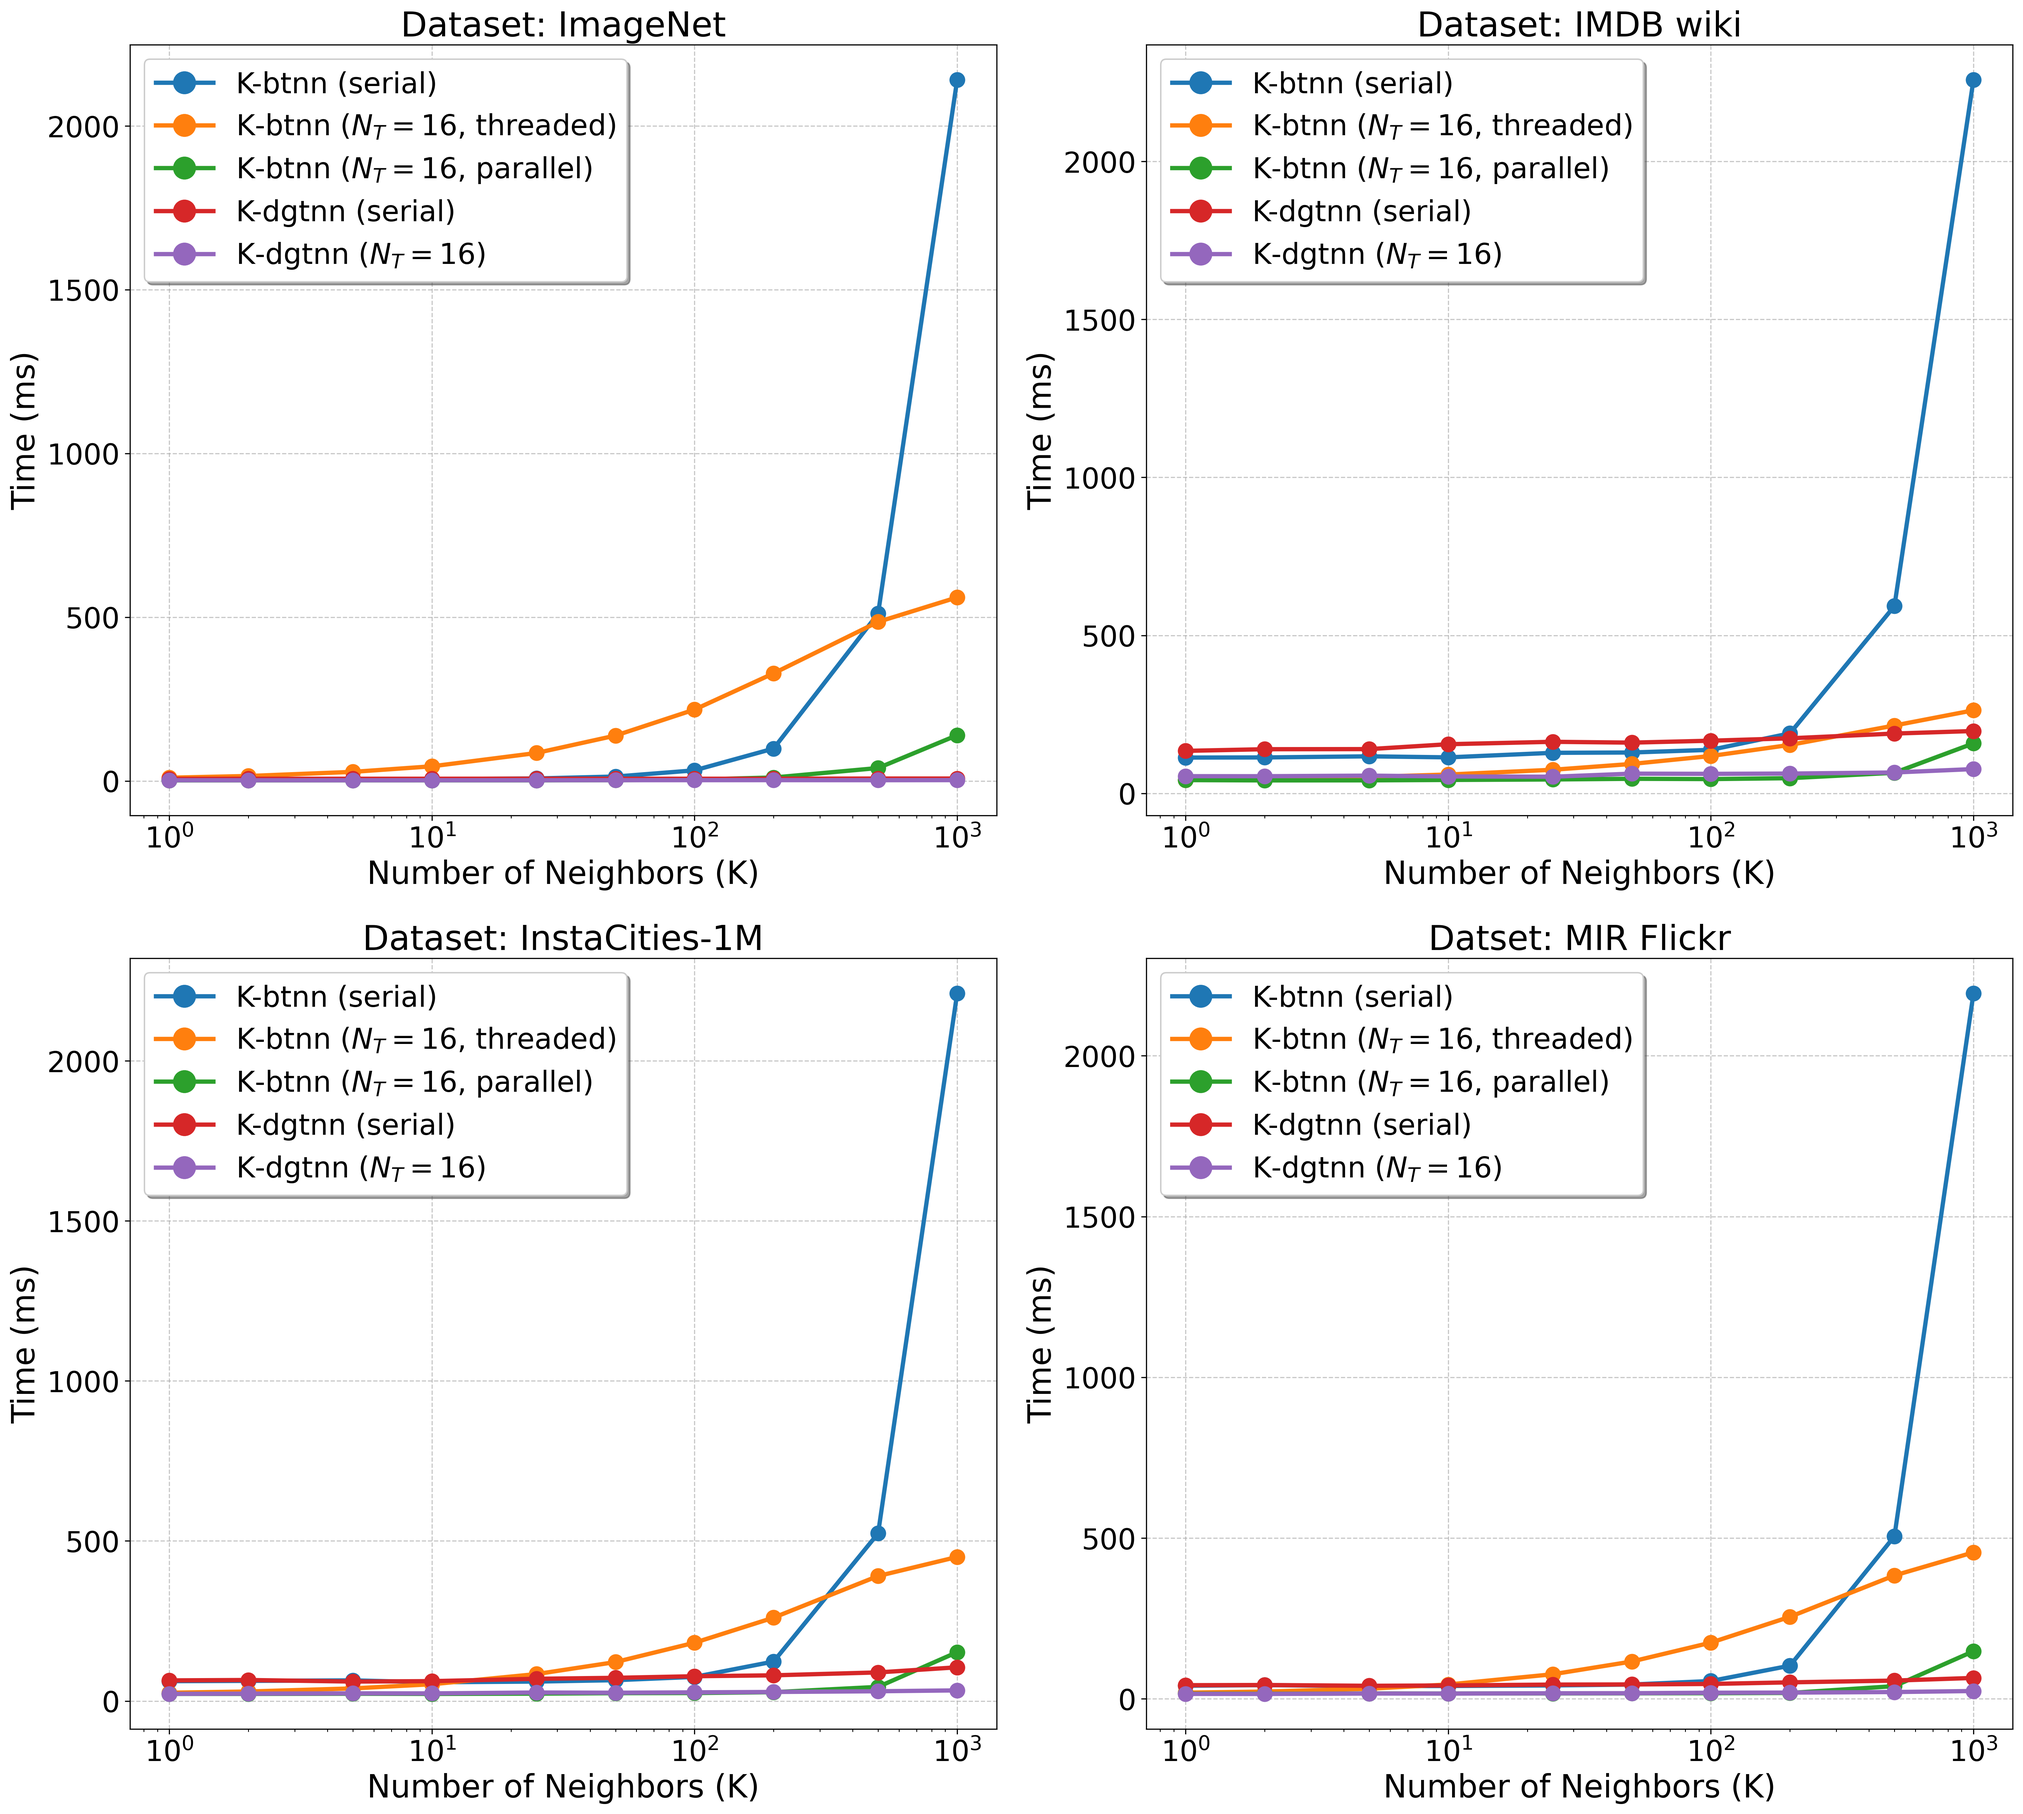
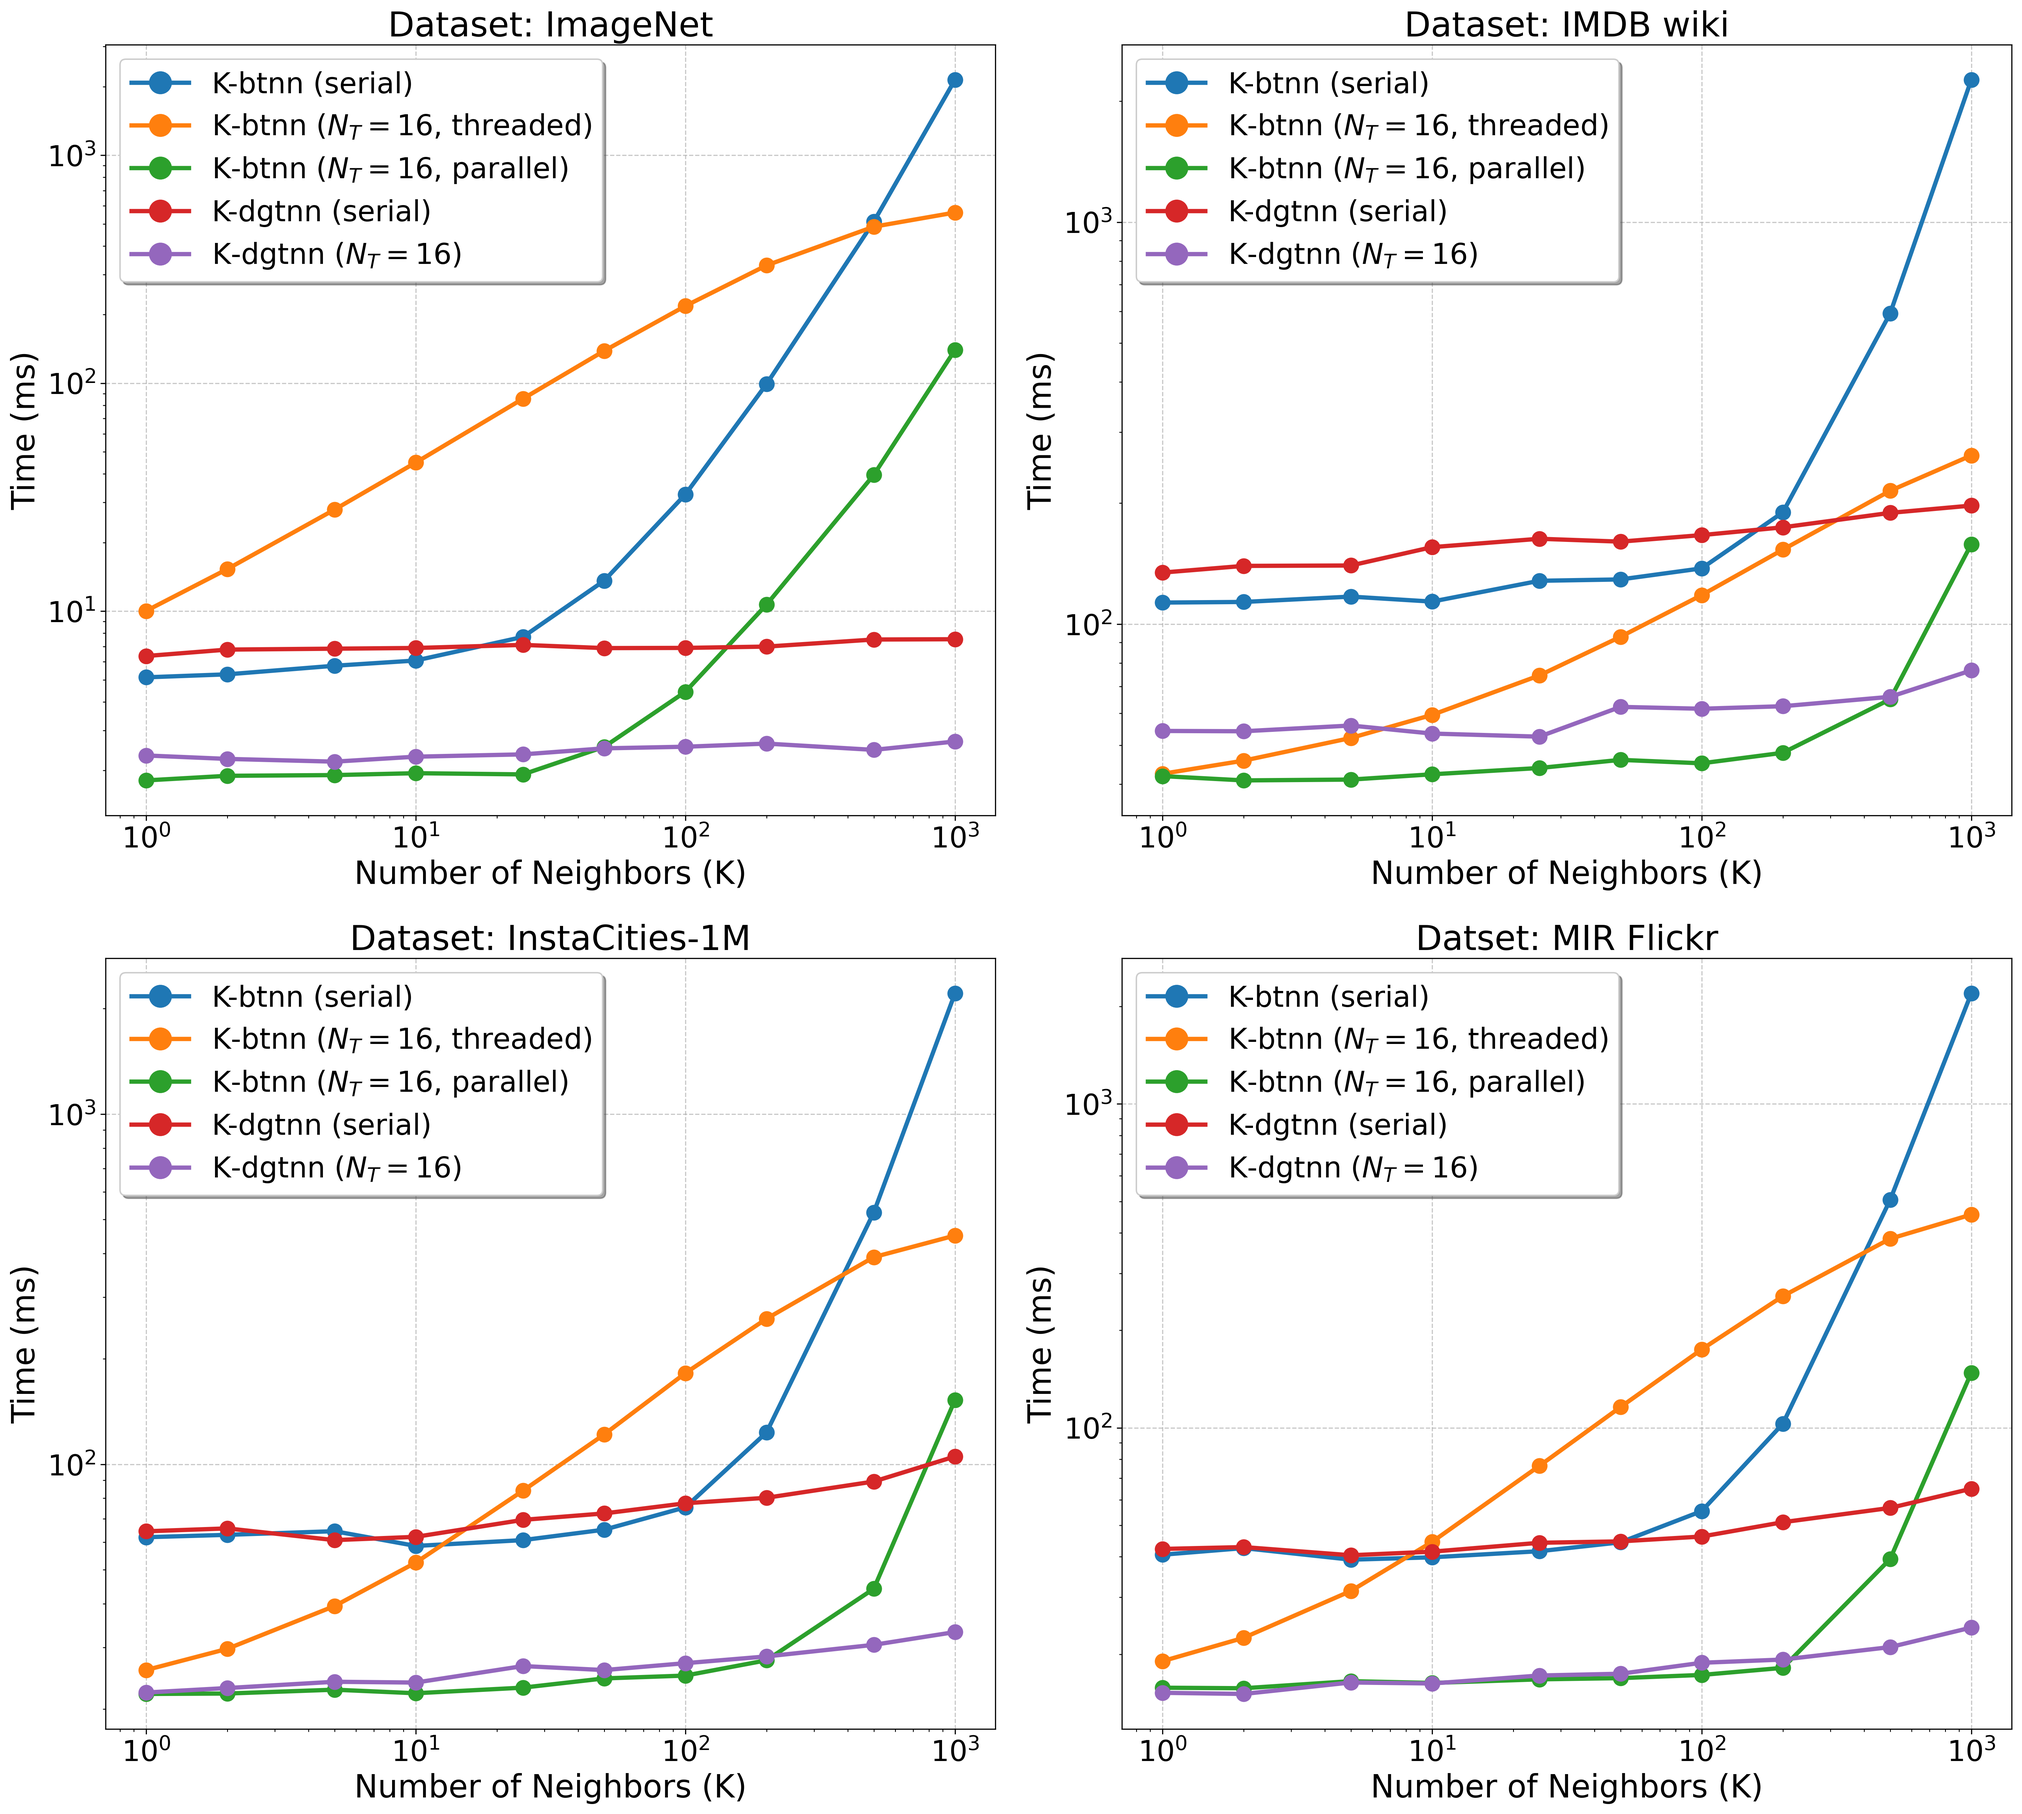
Fixed all

diff --git a/c_src/src/knns_dataset_reordered.hpp b/c_src/src/knns_dataset_reordered.hpp
@@ -10,7 +10,6 @@
 #include <queue>
 #include <algorithm>
 #include <limits>
-#include <omp.h>
 #include <atomic>
 
 #ifndef KNNS_TREE_LEVELS
@@ -136,39 +135,34 @@ public:
         if (this->index.trees.empty()) return {vector<uint>(), 0};
 
         const uint num_trees = this->index.trees.size();
-        if (use_threading) {
+        if (use_threading && num_trees >= NUM_THREADS) {
+            vector<pair<vector<pair<double, uint>>, size_t>> async_results(num_trees);
+            vector<thread> threads(NUM_THREADS);
+            auto worker = [this, &async_results, &query] (uint start, uint end) {
+                for (uint i = start; i < end; i++)
+                    async_results[i] = this->search_pool_single(this->index.trees[i], this->index.reorder_maps[i], query, i);
+            };
+
+            for (uint i = 0; i < NUM_THREADS; i++) {
+                uint start = (i * num_trees) / NUM_THREADS;
+                uint end = ((i + 1) * num_trees) / NUM_THREADS;
+                if (i == NUM_THREADS - 1) end = num_trees;
+                threads[i] = thread(worker, start, end);
+            }
+            for (auto &t : threads) if (t.joinable()) t.join();
+
+            vector<pair<double, uint>> all_candidates;
             size_t total_dots = 0;
-            vector<pair<double, uint>> root_dots(num_trees);
-            
-            #pragma omp parallel for reduction(+:total_dots) num_threads(NUM_THREADS)
-            for (uint i = 0; i < num_trees; i++) {
-                root_dots[i] = {query.dot(this->index.trees[i][1]), i};
-                total_dots++;
+            for (auto &res : async_results) {
+                all_candidates.insert(all_candidates.end(), res.first.begin(), res.first.end());
+                total_dots += res.second;
             }
-            
-            sort(root_dots.begin(), root_dots.end(), greater<pair<double, uint>>());
-            
-            vector<pair<double, uint>> candidates;
-            double threshold = -1e18;
-            
-            // To maintain pruning, we check trees in order.
-            // If a root dot product is lower than the 10th best neighbor found so far, we stop.
-            for (const auto& rd : root_dots) {
-                if (candidates.size() >= this->k_val && rd.first < threshold - 1e-9) break;
-                
-                auto [tree_candidates, dots] = this->search_pool_single(this->index.trees[rd.second], 
-                                                                       this->index.reorder_maps[rd.second], 
-                                                                       query, rd.second);
-                total_dots += dots;
-                candidates.insert(candidates.end(), tree_candidates.begin(), tree_candidates.end());
-                
-                sort(candidates.begin(), candidates.end(), greater<pair<double, uint>>());
-                if (candidates.size() > this->k_val) candidates.resize(this->k_val);
-                if (candidates.size() == this->k_val) threshold = candidates.back().first;
-            }
+            sort(all_candidates.begin(), all_candidates.end(), greater<pair<double, uint>>());
             
             vector<uint> final_results;
-            for (auto& c : candidates) final_results.push_back(c.second);
+            for (uint i = 0; i < min((size_t)all_candidates.size(), this->k_val); i++) {
+                final_results.push_back(all_candidates[i].second);
+            }
             sort(final_results.begin(), final_results.end());
             return {final_results, total_dots};
         }

diff --git a/c_src/plot_ablation.py b/c_src/plot_ablation.py
@@ -70,6 +70,7 @@ def plot_ablation(data_type, output_name, title):
         ax.grid(True, linestyle='--', alpha=0.7)
         ax.legend(frameon=True, shadow=True, markerscale=1.5)
         ax.set_xscale('log')
+        ax.set_yscale('log')
 
     plt.tight_layout()
     plt.savefig(os.path.join(CUR_DIR, output_name), bbox_inches='tight', dpi=300)
